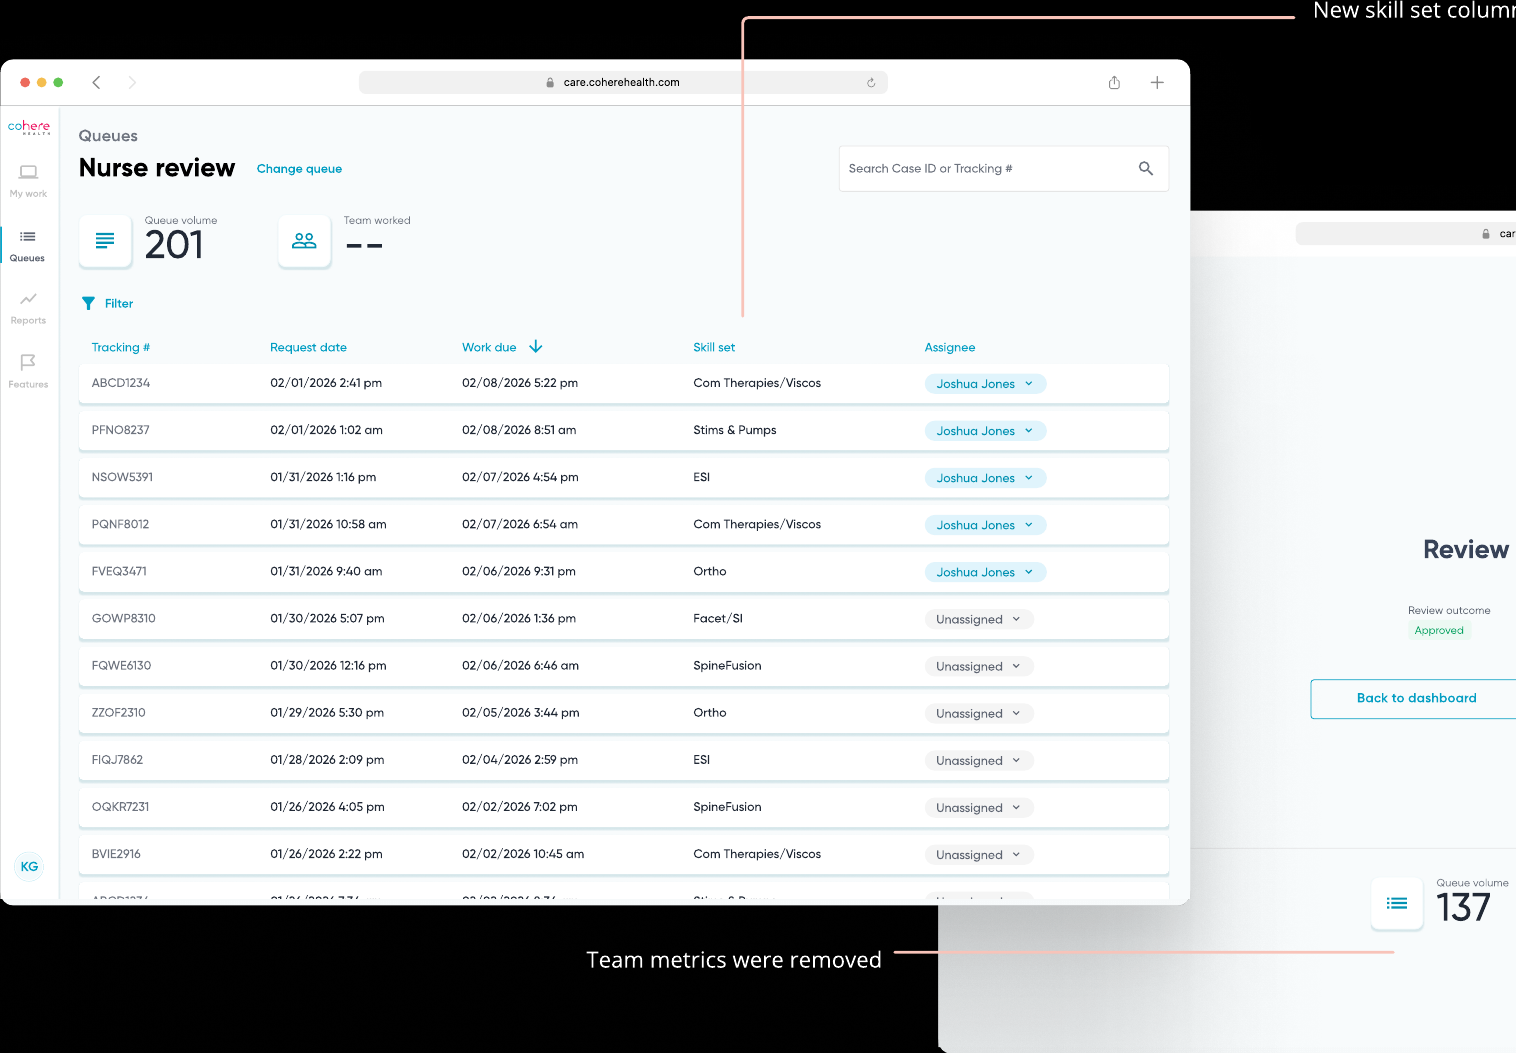
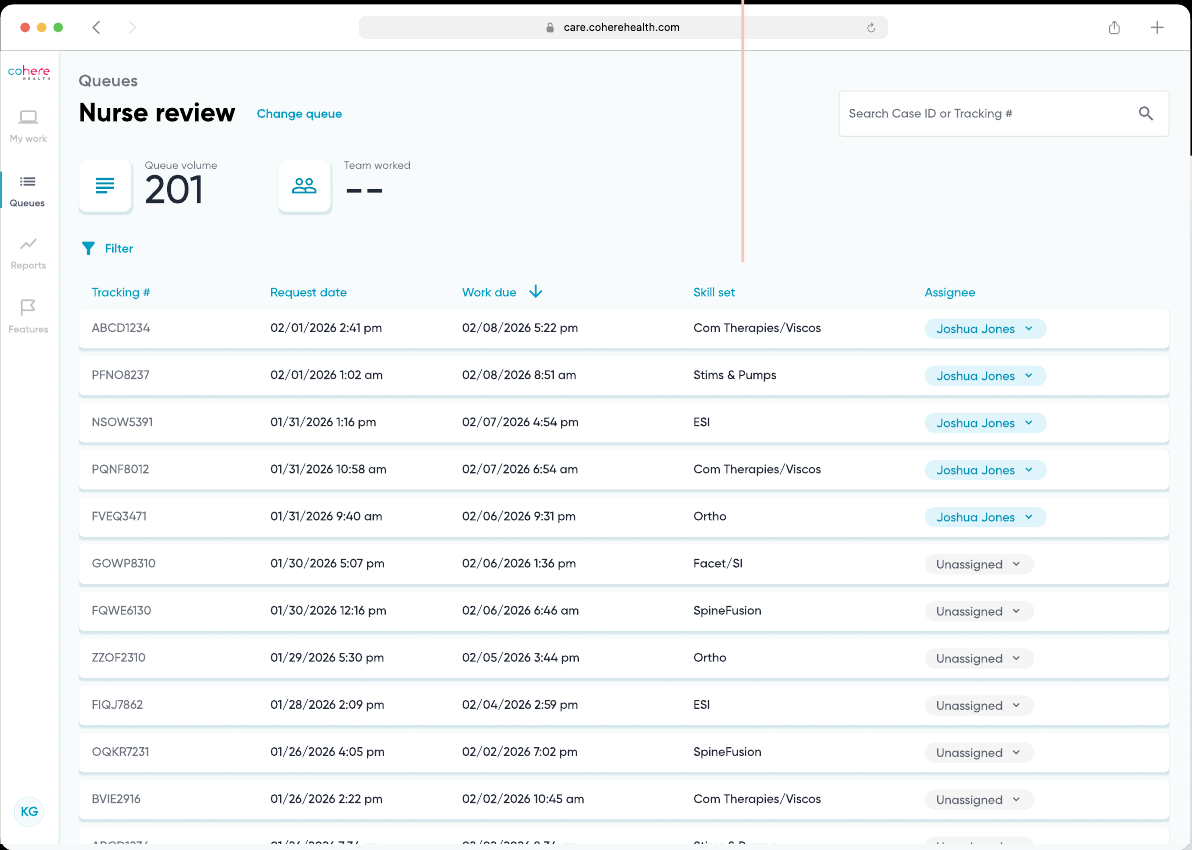
Condense Queue Management case study to 3 themes, add more visuals
Pulled source content from the Figma-exported portfolio deck
(Kelsey G.- Portfolio Presentation.pdf) to restructure the case
study around the three themes requested:
  1. Everything Salesforce does, but better
  2. Scale from 1 to 2, then to many
  3. Building Cohere's first in-app reporting product: visual
     exploration (replaces the "agents feel accomplished" section)

- Cut prose substantially in favor of screenshots: intro + HMW
  question up front, one tight paragraph of context per theme,
  final designs doing the explaining
- Added two new process/exploration images extracted from the deck:
  four early sketches for the assignment problem, and six visual
  style directions for the reporting dashboard
- Cleaned up stray annotation lines and leaked adjacent-window crops
  baked into the existing intake-dashboard.png and
  clinical-review.png screenshots
- Kept Impact stats and condensed Takeaways to the three focus areas

diff --git a/case-qm.html b/case-qm.html
@@ -49,53 +49,36 @@
     <div class="wrap">
 
       <section>
-        <p>I designed a workforce management tool that gave ops teams at Cohere Health automation, visibility, and control over their daily workload, replacing a $1,600-per-seat Salesforce instance with something built natively into the product. It scaled from a single team to 15+ queues across the company and saved $320k a year in licensing costs.</p>
-      </section>
-
-      <section>
-        <h2>The problem</h2>
-        <p>Cohere Health processes prior authorizations, the approvals physicians need from insurers before treating a patient. Insurers use prior auth to control costs, but 93% of physicians report it delays care and 94% say it hurts patient outcomes. Every day, 6,000+ submissions moved through three manual stages: fax intake, clinical review, and denial letter writing.</p>
-        <p>Our ops team ran all of it through Salesforce, which meant heavy customization for every queue, constant app-switching since it wasn't native to our product, no real-time reporting, and a bill of $1,600 per license across 250+ users.</p>
-      </section>
-
-      <section>
-        <h2>Research</h2>
-        <p>I combined desk research and competitive analysis with interviews with intake specialists to understand how work actually moved through the queue, then narrowed scope to fax intake as the starting point, since it was the highest-volume, most repetitive stage and the clearest proof of concept.</p>
+        <p>A native workforce management tool that replaced a $1,600-per-seat Salesforce instance for Cohere Health's ops team, processing 6,000+ prior-authorization submissions a day. It scaled from one queue to 15+ across the company and saved $320k a year.</p>
         <blockquote>How might we create a native, less manual queue management experience for intake specialists so they can process faxes more efficiently?</blockquote>
-        <p>I set three goals against that question: intake specialists can quickly find the highest-priority case and reduce supervisor time spent on manual assignment to under 20%, user satisfaction passes 80% against Salesforce's baseline of 47%, and the system can scale from one queue to many within three months.</p>
       </section>
 
       <section>
         <h2>1. Everything Salesforce does, but better</h2>
-        <p>Two problems stood out early. Intake specialists didn't always know which case to prioritize, which meant missed turnaround times, a real compliance risk with direct revenue consequences. And supervisors spent nearly 75% of their time manually assigning cases instead of coaching their teams.</p>
-        <p>I explored a handful of directions before converging on a solution: a case preview card for quick assignment decisions, a personal queue that auto-assigned cases each morning, a side-by-side view of queue volume against team capacity, and a "case galaxy" concept with a single button that fetched the highest-priority case automatically. That last one started as a deliberate push-the-limit idea, more ambitious than what I expected to ship, but it ended up shaping the final design more than any of the safer options.</p>
+        <p>Intake specialists didn't always know which case to prioritize, causing missed turnaround times. Supervisors spent nearly 75% of their time manually assigning cases instead of coaching their teams.</p>
+        <div class="shot"><img src="images/qm/exploration-assignment.png" alt="Four early sketches: case preview card, case galaxy, personal queue, and a queue-vs-capacity dashboard"></div>
+        <p class="shot-caption">Four directions explored before converging: a case preview card, an auto-assigned personal queue, a capacity dashboard, and "case galaxy," a deliberate push-the-limit idea that ended up shaping the final design more than any of the safer options.</p>
         <div class="shot"><img src="images/qm/intake-dashboard.png" alt="Intake specialist dashboard showing queue volume, a big blue Start next case button, and case history"></div>
-        <p class="shot-caption">Intake specialist view: efficiency metrics up top, one unmissable action to start the next case, full history built in.</p>
-        <p>The supervisor view took a different shape entirely, built around visibility and oversight rather than single-case focus: real-time queue and team metrics, full search across every case, and red "Unassigned" chips that flag exactly where a supervisor's attention is needed.</p>
+        <p class="shot-caption">Intake specialist view: one unmissable action to start the next case, efficiency metrics up top.</p>
         <div class="shot"><img src="images/qm/supervisor-view.png" alt="Supervisor queue view listing all cases with tracking numbers, request dates, and work due dates"></div>
-        <p class="shot-caption">Supervisor view: every case in the queue, searchable, with the information supervisors need to assign work without leaving the page.</p>
+        <p class="shot-caption">Supervisor view: real-time queue and team metrics, with red "Unassigned" chips flagging where attention is needed.</p>
       </section>
 
       <section>
-        <h2>2. Agents feel accomplished when they finish a fax</h2>
-        <p>In user interviews, one thing came up again and again: intake specialists stayed engaged when they felt a sense of accomplishment after finishing a case. My PM initially called this a nice-to-have, secondary to the functional requirements, and asked me not to spend design time on it.</p>
-        <p>I pushed back with two things instead of just an opinion. First, our baseline survey showed only 47% of intake staff rated Salesforce a 4 or 5 out of 5, against an 80% target we'd already set for the redesign, so satisfaction wasn't a soft metric here, it was a named goal. Second, "inject joy into healthcare" was already one of Cohere's stated design principles, which meant this wasn't a scope add-on, it was the product strategy applied literally.</p>
-        <p>That reframe turned into a "work complete" screen: a randomly selected GIF from a hand-picked library of 500+, paired with case outcome details for a clear sense of closure and updated queue and performance metrics so agents got real-time feedback on their pace.</p>
-        <div class="shot"><img src="images/qm/work-complete.png" alt="Work complete celebration screen with a GIF, case outcome, and a Start next case button"></div>
-        <p class="shot-caption">The work complete screen: closure, a moment of delight, and an immediate path back into the queue.</p>
-        <p>94% of users rated QM a 4 or 5 out of 5 after launch. One intake specialist told us the screen made her feel good and that she liked the affirmation. Another said it felt like flow, that she'd never worked so fast.</p>
-      </section>
-
-      <section>
-        <h2>3. Scale from 1 to 2, then to many</h2>
-        <p>Four months after launch, fax intake alone drove a 45% increase in cases worked per hour. The next question was how far the same model could stretch.</p>
-        <p>Clinical review turned out to need a different definition of "good work" than fax intake did. Intake specialists optimize for speed and volume, follow strict rules, and treat every fax the same. Clinical reviewers optimize for accuracy, define their own workflows case by case, and are guided by clinical judgment rather than a metric. I translated that into two different versions of joy: fax intake work is about momentum and light delight, nurse review work is about confidence and clarity. The celebratory GIFs that worked so well for fax intake didn't fit a clinical context, so they came out of the nurse review version, along with team-level metrics that added noise rather than useful signal for that audience.</p>
+        <h2>2. Scale from 1 to 2, then to many</h2>
+        <p>Fax intake alone drove a 45% increase in cases worked per hour. Expanding to clinical review meant designing for a different definition of "good work": intake specialists optimize for speed and follow strict rules; clinical reviewers optimize for accuracy and use clinical judgment case by case.</p>
         <div class="shot"><img src="images/qm/clinical-review.png" alt="Clinical review queue with a new skill set column and assignee dropdowns"></div>
-        <p class="shot-caption">Clinical review queue: same underlying system, tuned for a different kind of work and a different definition of success.</p>
-        <p>To get past designing for just two personas, I built a configuration tool that let the team stand up new queues without custom engineering for each one. That system is what let Queue Management expand to 15+ queues across the company.</p>
-        <p>The last major gap was reporting. Because Salesforce lived outside our product, ops leaders had no real-time visibility into volume or team performance, which slowed decisions that depended on that data. I designed Cohere's first data visualization product to close that gap, breaking the work down by user story and validating the visual approach before building it out in full.</p>
+        <p class="shot-caption">Clinical review queue: same underlying system, tuned for a different kind of work.</p>
+        <p>To get past designing for just two personas, I built a configuration tool that let the team stand up new queues without custom engineering, which is what let Queue Management expand to 15+ queues company-wide.</p>
+      </section>
+
+      <section>
+        <h2>3. Building Cohere's first in-app reporting product: visual exploration</h2>
+        <p>Because Salesforce lived outside our product, ops leaders had no real-time visibility into volume or performance. I broke the work down by user story, then explored six visual directions for the data, from grounded and familiar to imaginative and vibrant, before finding the sweet spot.</p>
+        <div class="shot"><img src="images/qm/exploration-reporting.png" alt="Six visual style explorations for a reporting dashboard, ranging from a plain data table to an illustrated, colorful layout"></div>
+        <p class="shot-caption">Style exploration: six directions for the same data, from grounded and familiar to imaginative and vibrant.</p>
         <div class="shot"><img src="images/qm/reporting.png" alt="In-app reporting dashboard with a historical production bar chart and filter panel"></div>
-        <p class="shot-caption">In-app reporting: the visibility ops leaders lost when Salesforce sat outside the product, rebuilt natively.</p>
+        <p class="shot-caption">Final design: real-time visibility, rebuilt natively where Salesforce couldn't reach.</p>
       </section>
 
       <section>
@@ -110,7 +93,7 @@
 
       <section>
         <h2>Takeaways</h2>
-        <p>The biggest lesson from this project was that influence comes from pairing user insight with business context, and then communicating both in a way stakeholders can actually act on. Getting the "work complete" screen built took data, not just a design opinion. I also learned to scale through configuration instead of one-off customization: building the queue config tool early meant the system could grow to 15+ queues without engineering rebuilding it from scratch every time. Both of those are habits I now build into every 0 to 1 project from the start.</p>
+        <p>Scale through configuration, not customization: building the config tool early meant the system could grow to 15+ queues without engineering rebuilding it each time. And breaking ambiguous 0 → 1 work (like a first-ever data viz product) into concrete user stories made it tractable and gave stakeholders something real to react to early.</p>
       </section>
 
     </div>
